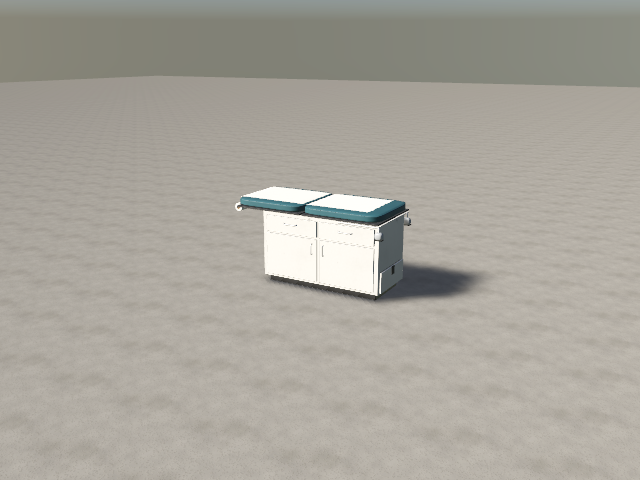
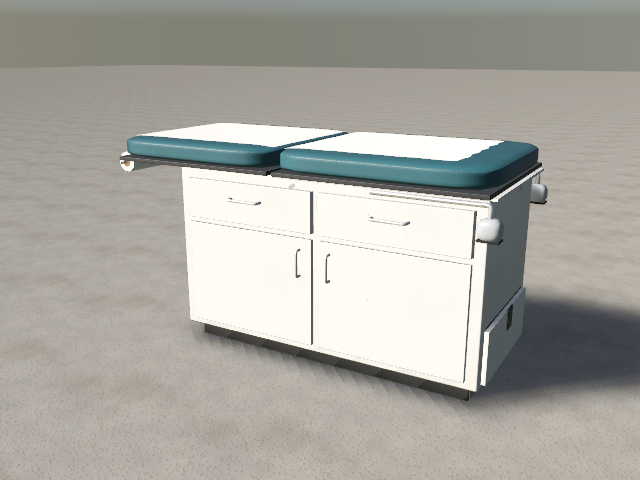
er-stretcher: ER stretcher (lift columns, Fowler back, rails, IV pole); preview distances

diff --git a/Sources/RealLibrary/Props/Patient/ErStretcher.swift b/Sources/RealLibrary/Props/Patient/ErStretcher.swift
@@ -1,0 +1,150 @@
+import simd
+import Foundation
+
+/// Emergency department transport stretcher (Stryker Prime / Hill-Rom Transtar class): 66 x 193 cm
+/// litter, deck height 57-92 cm. Steel base frame under a molded grey shroud on four 200 mm casters
+/// with total-lock pedals, two three-stage telescoping lift columns, aluminum litter frame with
+/// corner bumpers, 80 mm black vinyl pad with a fitted linen sheet, Fowler backrest (0-85 degrees) with a
+/// red CPR release, two side rails that fold down outboard, head-end push handles and a folding IV pole.
+/// Head at -X. Joints: lift (slide) > back, rail-right (rail-left mimics), iv-pole.
+public struct ErStretcher: RealArticulated {
+    public static let id = "er-stretcher"
+    public static let summary = "Emergency stretcher: shrouded base on four braked casters, twin lift columns, vinyl pad with linen sheet, Fowler backrest, fold-down side rails and IV pole."
+    public static let tags = ["prop", "medical", "hospital", "furniture", "metal", "plastic", "articulated"]
+    public static let budget = 15_000
+    public static let author = "realityhd"
+    public static let preview = PreviewHint(azimuth: 32, elevation: 18, distance: 1.0, studio: true)
+
+    /// Base shroud and molded parts.
+    public var shroud: MaterialKey = "plastic.medical-grey"
+    /// Pad cover and sheet.
+    public var pad: MaterialKey = "vinyl.medical-black"
+    public var sheet: MaterialKey = "fabric.linen"
+    public var litterLength: Float = 1.93
+    public var litterWidth: Float = 0.66
+    /// Deck height at the lowest setting (m) and lift travel (m).
+    public var lowDeck: Float = 0.57
+    public var travel: Float = 0.35
+    public init() {}
+
+    public func rig(seed: UInt64) -> Rig {
+        var rng = SeededRNG(seed: seed)
+        var rig = Rig(name: Self.id, lods: 2, switchDistances: [9])
+        let alu: MaterialKey = "metal.casework", chrome: MaterialKey = "metal.chrome", black: MaterialKey = "plastic.matte:1E1F21"
+        let L = litterLength / 2, Wp = litterWidth / 2
+        let deck = lowDeck, frameY = deck - 0.04, padH: Float = 0.08
+        let casterH: Float = 0.2, baseTop: Float = 0.3
+        let hingeX: Float = -0.25
+
+        // MARK: base: frame, shroud, casters with pedals.
+        for l in 0..<2 {
+            var m = Model(name: Self.id)
+            for sz: Float in [-1, 1] {
+                m.add(PatientKit.bar(V3(-0.86, casterH + 0.02, sz * 0.27), V3(0.86, casterH + 0.02, sz * 0.27), w: 0.05, h: 0.04, r: 0.004, material: alu))
+            }
+            for sx: Float in [-1, 1] {
+                m.add(PatientKit.bar(V3(sx * 0.84, casterH + 0.02, -0.29), V3(sx * 0.84, casterH + 0.02, 0.29), w: 0.06, h: 0.04, r: 0.004, material: alu))
+            }
+            // Shroud: crowned molded cover with a raised center spine between the columns.
+            m.add(Prim.roundedBox(V3(1.62, 0.1, 0.58), radius: 0.035, bevelSegments: l == 0 ? 3 : 1, material: shroud), Xform(translation: V3(0, casterH + 0.075, 0)))
+            m.add(Prim.roundedBox(V3(1.2, 0.05, 0.3), radius: 0.02, bevelSegments: l == 0 ? 2 : 1, material: shroud), Xform(translation: V3(0, baseTop - 0.025, 0)))
+            for sx: Float in [-1, 1] { for sz: Float in [-1, 1] {
+                let p = V3(sx * 0.84, 0, sz * 0.27)
+                if l == 0 {
+                    PatientKit.brakedCaster(&m, at: p, height: casterH, wheelRadius: 0.1, yaw: (sx > 0 ? 0 : 180) + rng.float(-10...10), pedalYaw: sx > 0 ? 180 : 0,
+                                            frame: alu, wheel: "rubber", hub: "plastic.matte:3A3B3E", pedal: sz > 0 ? "plastic.matte:2E7D4F" : "plastic.matte:B0302A", detail: false)
+                } else {
+                    m.add(Prim.cylinder(radius: 0.1, height: 0.024, bevel: 0.006, segments: 10, bevelSegments: 1, material: "rubber"),
+                          Xform(translation: p + V3(0.03 * sx, 0.1, -0.012), rotation: simd_quatf(degrees: 90, axis: V3(1, 0, 0))))
+                    m.add(PatientKit.box(V3(0.06, 0.1, 0.04), p + V3(0, casterH - 0.05, 0), r: 0.006, seg: 1, material: alu))
+                }
+            }}
+            rig.base[l] = m
+        }
+
+        // MARK: lift: litter frame, deck, seat/foot pad, push handles, bumpers, columns.
+        rig.part("lift", pivot: V3(0, frameY, 0), joint: .slide(axis: .up, 0...travel, duration: 1.6))
+        for x: Float in [-0.5, 0.5] {
+            PatientKit.column(&rig, name: x < 0 ? "col-head" : "col-foot", at: V2(x, 0), bottom: baseTop - 0.01, top: frameY - 0.025, travel: travel,
+                              size: V2(0.16, 0.12), housing: shroud, sleeve: "plastic.medical", inner: alu)
+        }
+        for l in 0..<2 {
+            let ring = PatientKit.bend([V3(-L + 0.02, frameY, -0.28), V3(L - 0.02, frameY, -0.28), V3(L - 0.02, frameY, 0.28), V3(-L + 0.02, frameY, 0.28)], radius: 0.06, seg: l == 0 ? 4 : 2)
+            rig.add(Prim.sweep(Shape2D.roundedRect(0.05, 0.025, radius: 0.005, segments: 1), along: ring, up: .up, closedPath: true, material: alu), to: "lift", lods: l...l)
+        }
+        for x: Float in [-0.5, 0.0, 0.5] {
+            rig.add(PatientKit.bar(V3(x, frameY - 0.005, -0.27), V3(x, frameY - 0.005, 0.27), w: 0.05, h: 0.04, r: 0.004, material: alu), to: "lift")
+        }
+        rig.add(PatientKit.box(V3(L - hingeX - 0.02, 0.012, 2 * Wp - 0.04), V3((hingeX + L) / 2, deck - 0.006, 0), r: 0.004, seg: 1, material: shroud), to: "lift")
+        for (k, s) in PatientKit.pad(hingeX + 0.006, L - 0.005, y0: deck, h: padH, w: 2 * Wp, material: pad, sheet: sheet, sub: 7, seed: seed).enumerated() {
+            rig.add(s, to: "lift", lods: 0...0); _ = k
+        }
+        for s in PatientKit.pad(hingeX + 0.006, L - 0.005, y0: deck, h: padH, w: 2 * Wp, material: pad, sheet: sheet, sub: 4, seed: seed) { rig.add(s, to: "lift", lods: 1...1) }
+        // Restraint strap across the thighs with a buckle (story detail).
+        let strapX: Float = 0.25
+        let strapPath = stride(from: -Wp - 0.02, through: Wp + 0.02, by: 0.04).map { z -> V3 in
+            let e = max(0, abs(z) - (Wp - 0.03)) / 0.05
+            return V3(strapX, deck + padH + 0.004 - e * 0.06, z)
+        }
+        rig.add(PatientKit.ribbon(strapPath, across: V3(-1, 0, 0), width: 0.05, steps: 1, material: "fabric.nylon:22252A"), to: "lift")
+        rig.add(Prim.roundedBox(V3(0.07, 0.012, 0.06), radius: 0.004, bevelSegments: 1, material: "plastic.matte:2A2B2D"),
+                Xform(translation: V3(strapX, deck + padH + 0.01, 0.08)), to: "lift", lods: 0...0)
+        // Corner bumpers.
+        for sx: Float in [-1, 1] { for sz: Float in [-1, 1] {
+            rig.add(Prim.cylinder(radius: 0.038, height: 0.06, bevel: 0.01, segments: 12, bevelSegments: 1, material: "rubber:5A5C5F"),
+                    Xform(translation: V3(sx * (L + 0.005), frameY - 0.03, sz * 0.27)), to: "lift")
+        }}
+        // Push handles at the head end.
+        for sz: Float in [-1, 1] {
+            let h = PatientKit.bend([V3(-L + 0.04, frameY, sz * 0.22), V3(-L - 0.03, frameY + 0.02, sz * 0.22), V3(-L - 0.05, deck + 0.34, sz * 0.22)], radius: 0.05, seg: 4)
+            rig.add(PatientKit.tube(h, r: 0.0135, sides: 10, material: alu), to: "lift")
+            rig.add(PatientKit.rod(V3(-L - 0.044, deck + 0.2, sz * 0.22), V3(-L - 0.05, deck + 0.33, sz * 0.22), r: 0.018, sides: 10, material: "rubber"), to: "lift")
+        }
+
+        // MARK: back (Fowler): deck panel, pad and sheet, gas strut bracket, CPR release.
+        rig.part("back", parent: "lift", pivot: V3(hingeX, deck + padH - 0.01, 0), joint: .hinge(axis: V3(0, 0, -1), 0...85, duration: 1.2))
+        rig.add(PatientKit.box(V3(hingeX + L - 0.03, 0.012, 2 * Wp - 0.04), V3((hingeX - L) / 2, deck - 0.006, 0), r: 0.004, seg: 1, material: shroud), to: "back")
+        for s in PatientKit.pad(-L + 0.005, hingeX - 0.006, y0: deck, h: padH, w: 2 * Wp, material: pad, sheet: sheet, sub: 7, seed: seed &+ 3) { rig.add(s, to: "back", lods: 0...0) }
+        for s in PatientKit.pad(-L + 0.005, hingeX - 0.006, y0: deck, h: padH, w: 2 * Wp, material: pad, sheet: sheet, sub: 4, seed: seed &+ 3) { rig.add(s, to: "back", lods: 1...1) }
+        rig.add(PatientKit.bar(V3(-L + 0.1, deck - 0.02, 0), V3(hingeX - 0.02, deck - 0.02, 0), w: 0.04, h: 0.02, r: 0.003, material: alu), to: "back")
+        rig.add(PatientKit.box(V3(0.12, 0.025, 0.03), V3(-0.55, deck - 0.02, Wp - 0.03), r: 0.008, seg: 1, material: "plastic.matte:C0302A"), to: "back")
+
+        // MARK: side rails: tube frames that fold down outboard about a pivot at the litter edge.
+        let railZ: Float = Wp + 0.05, pivY = frameY + 0.01
+        rig.part("rail-right", parent: "lift", pivot: V3(0, pivY, railZ), joint: .hinge(axis: V3(1, 0, 0), 0...170, duration: 1.0))
+        rig.part("rail-left", parent: "lift", pivot: V3(0, pivY, -railZ), joint: Joint(.revolute, axis: V3(-1, 0, 0), range: 0...170, mimic: .init("rail-right")))
+        for (name, sz) in [("rail-right", Float(1)), ("rail-left", Float(-1))] {
+            let z = sz * railZ, top = deck + 0.3, x0: Float = -0.6, x1: Float = 0.5
+            for l in 0..<2 {
+                let loop = PatientKit.bend([V3(x0, pivY + 0.005, z), V3(x0, top, z), V3(x1, top, z), V3(x1, pivY + 0.005, z)], radius: 0.06, seg: l == 0 ? 4 : 2)
+                rig.add(PatientKit.tube(loop, r: 0.0125, sides: l == 0 ? 10 : 6, material: alu), to: name, lods: l...l)
+                for y in [deck + 0.1, deck + 0.2] where l == 0 {
+                    rig.add(PatientKit.rod(V3(x0, y, z), V3(x1, y, z), r: 0.009, sides: l == 0 ? 8 : 5, material: alu), to: name, lods: l...l)
+                }
+            }
+            // Pivot brackets and the black release latch.
+            for x in [x0, x1] {
+                rig.add(PatientKit.box(V3(0.04, 0.04, 0.03), V3(x, pivY, z - sz * 0.012), r: 0.006, seg: 1, material: black), to: name)
+            }
+            rig.add(PatientKit.box(V3(0.09, 0.035, 0.03), V3((x0 + x1) / 2, top - 0.01, z), r: 0.008, seg: 1, material: black), to: name, lods: 0...0)
+        }
+
+        // MARK: IV pole: stowed along the head-end frame side, flips up at the head corner.
+        let ivPiv = V3(-L + 0.03, frameY - 0.03, -0.325)
+        rig.part("iv-pole", parent: "lift", pivot: ivPiv, joint: .hinge(axis: V3(0, 0, 1), 0...90, duration: 0.8))
+        rig.add(Prim.cylinder(radius: 0.02, height: 0.05, bevel: 0.004, segments: 12, bevelSegments: 1, material: black),
+                Xform(translation: ivPiv + V3(0.0, 0, 0), rotation: simd_quatf(degrees: -90, axis: V3(0, 0, 1))), to: "iv-pole")
+        rig.add(PatientKit.rod(ivPiv + V3(0.04, 0, 0), ivPiv + V3(0.62, 0, 0), r: 0.0125, sides: 10, material: chrome), to: "iv-pole")
+        rig.add(PatientKit.rod(ivPiv + V3(0.6, 0, 0), ivPiv + V3(0.92, 0, 0), r: 0.009, sides: 8, material: chrome), to: "iv-pole")
+        rig.add(PatientKit.box(V3(0.03, 0.03, 0.03), ivPiv + V3(0.61, 0, 0), r: 0.005, seg: 1, material: black), to: "iv-pole")
+        for sy: Float in [-1, 1] {
+            let hook = PatientKit.bend([ivPiv + V3(0.9, 0, 0), ivPiv + V3(0.9, sy * 0.06, 0), ivPiv + V3(0.94, sy * 0.07, 0), ivPiv + V3(0.95, sy * 0.05, 0)], radius: 0.012, seg: 3)
+            rig.add(PatientKit.tube(hook, r: 0.0045, sides: 6, material: chrome), to: "iv-pole", lods: 0...0)
+        }
+
+        groundAO(&rig, height: 0.12, floor: 0.55)
+        rig.states = [RigState("low-flat"), RigState("transport", ["lift": travel, "iv-pole": 90]),
+                      RigState("fowler", ["lift": 0.15, "back": 60]), RigState("rails-down", ["lift": 0.15, "rail-right": 170])]
+        return rig
+    }
+}

diff --git a/Sources/RealLibrary/Props/Patient/PatientKit.swift b/Sources/RealLibrary/Props/Patient/PatientKit.swift
@@ -89,6 +89,22 @@ enum PatientKit {
         return s
     }
 
+    /// Mattress segment along X (x0...x1, base at y0, height h, width w) and, when `sheet` is given, a
+    /// fitted sheet over its top and upper sides with a few soft wrinkles.
+    static func pad(_ x0: Float, _ x1: Float, y0: Float, h: Float, w: Float, material: MaterialKey, sheet: MaterialKey?, sub: Int, seed: UInt64) -> [Surface] {
+        let cx = (x0 + x1) / 2, L = x1 - x0
+        var out = [Prim.superellipsoid(V3(L, h, w), exponent: 8, subdivisions: sub, material: material).transformed(Xform(translation: V3(cx, y0 + h / 2, 0)))]
+        if let sheet {
+            let ph = Float(seed % 5) * 0.7
+            var s = Prim.superellipsoid(V3(L + 0.006, h * 0.8, w + 0.006), exponent: 8, subdivisions: sub, material: sheet) { d in
+                1 + 0.012 * sin(d.x * 9 + ph) * sin(d.z * 7) * max(0, d.y)
+            }
+            s = s.transformed(Xform(translation: V3(cx, y0 + h * 0.6 + 0.0015, 0)))
+            out.append(s)
+        }
+        return out
+    }
+
     /// Thin sheet (paper, linen) following a path, `width` across `across`; faces cross(across, tangent).
     /// UVs in meters. `offset(i, j)` moves vertex (path i, across j) for wrinkles and torn edges.
     static func ribbon(_ path: [V3], across: V3, width: Float, steps: Int, material: MaterialKey,

diff --git a/Sources/RealLibrary/Props/Patient/ExamTable.swift b/Sources/RealLibrary/Props/Patient/ExamTable.swift
@@ -14,7 +14,7 @@ public struct ExamTable: RealArticulated {
     public static let tags = ["prop", "medical", "hospital", "furniture", "metal", "articulated"]
     public static let budget = 15_000
     public static let author = "realityhd"
-    public static let preview = PreviewHint(azimuth: 30, elevation: 16, distance: 2.4, studio: true)
+    public static let preview = PreviewHint(azimuth: 30, elevation: 16, distance: 1.0, studio: true)
 
     /// Upholstery vinyl (tint for color).
     public var upholstery: MaterialKey = "vinyl.medical"

diff --git a/Sources/RealLibrary/Props/Patient/Wheelchair.swift b/Sources/RealLibrary/Props/Patient/Wheelchair.swift
@@ -14,7 +14,7 @@ public struct Wheelchair: RealArticulated {
     public static let tags = ["prop", "medical", "hospital", "furniture", "metal", "articulated"]
     public static let budget = 15_000
     public static let author = "realityhd"
-    public static let preview = PreviewHint(azimuth: 35, elevation: 14, distance: 1.9, studio: true)
+    public static let preview = PreviewHint(azimuth: 35, elevation: 14, distance: 1.0, studio: true)
 
     /// Sling vinyl.
     public var sling: MaterialKey = "vinyl.medical-black"

diff --git a/Sources/RealLibrary/Props/Props.swift b/Sources/RealLibrary/Props/Props.swift
@@ -68,6 +68,7 @@ public enum Props {
         OverbedTable.self,
         ExamTable.self,
         Wheelchair.self,
+        ErStretcher.self,
         // realityhd:prop
     ]
 }
